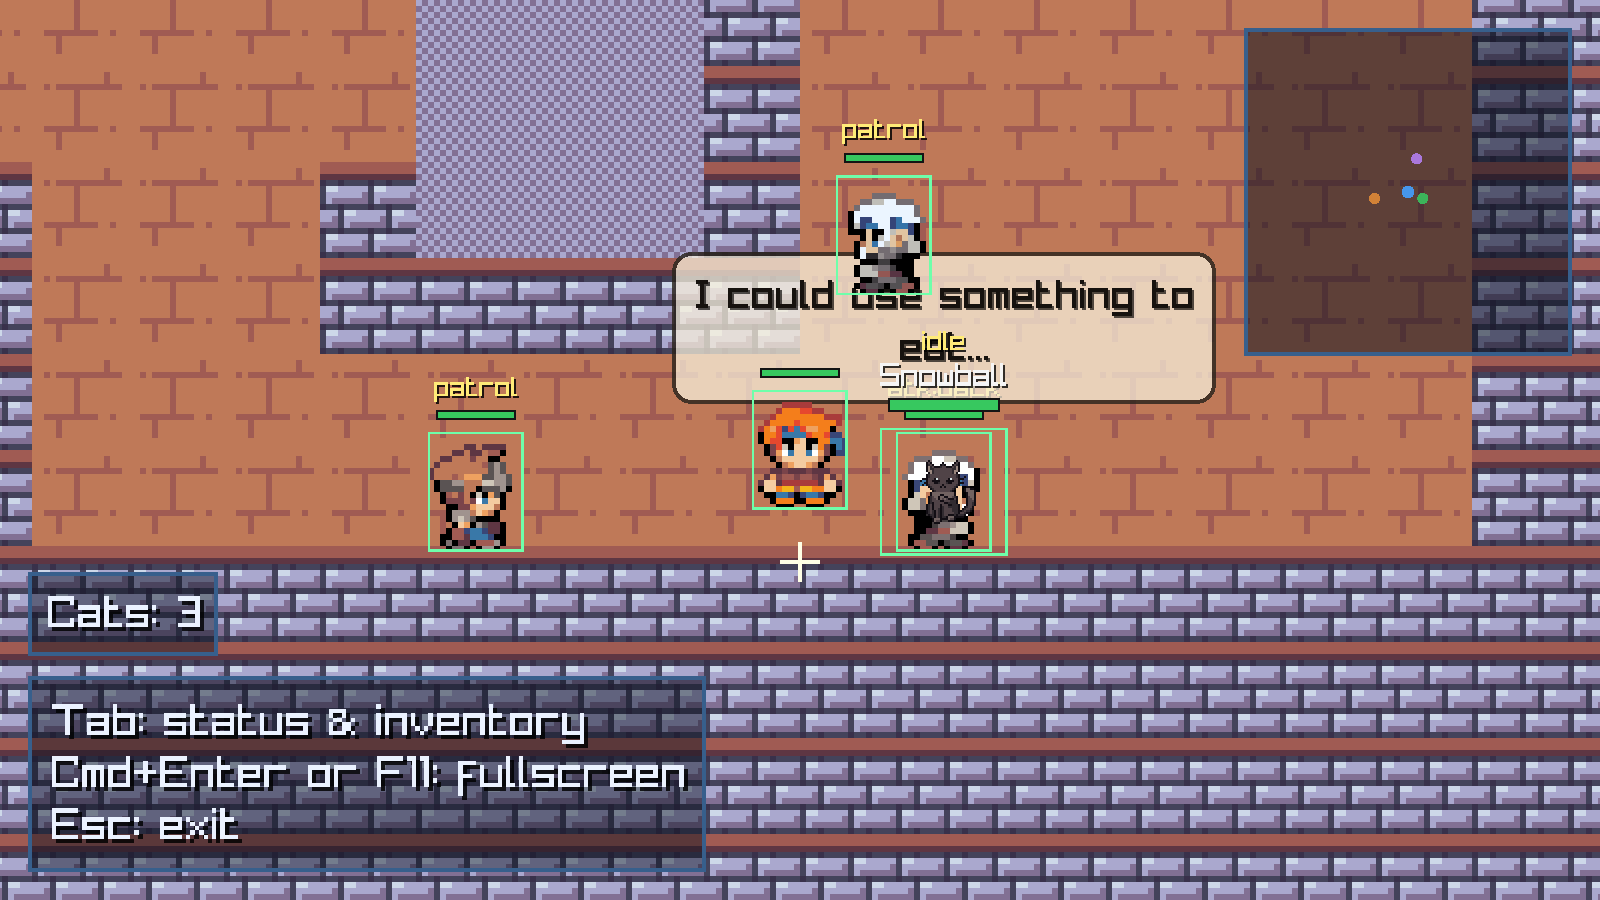
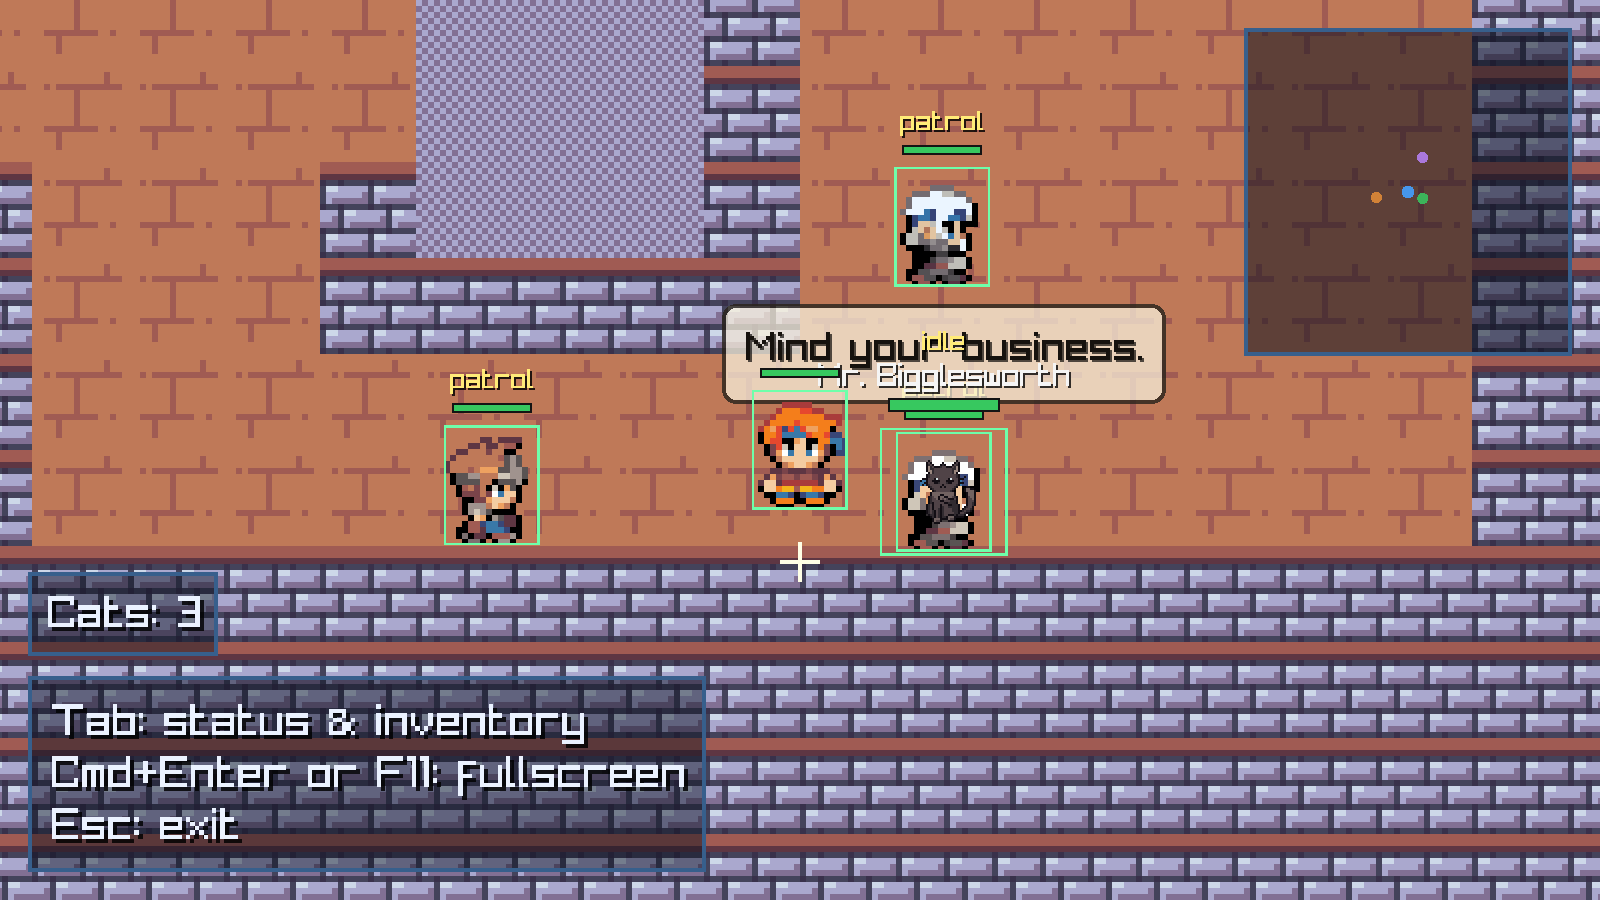
multilpe cat sprites

Changed region(s): [[0.4062, 0.1244, 0.7812, 0.4667], [0.25, 0.4044, 0.3438, 0.6222]]

diff --git a/SleuthRay/SleuthRayGame.cs b/SleuthRay/SleuthRayGame.cs
@@ -85,7 +85,12 @@ internal sealed class SleuthRayGame : ISleuthRayGame
         Texture2D wandererTexture = RaylibTextures.LoadTexturePixel("assets/characters/character_4_frame16x20.png");
         Texture2D agentTexture = RaylibTextures.LoadTexturePixel("assets/characters/character_9_frame16x20.png");
         Texture2D gunTexture = RaylibTextures.LoadTexturePixel("assets/weapons/1Revolver01.png");
-        Texture2D catTexture = RaylibTextures.LoadTexturePixel("assets/cats/cat.png");
+        Texture2D[] catTextures =
+        [
+            RaylibTextures.LoadTexturePixel("assets/cats/cat-a.png"),
+            RaylibTextures.LoadTexturePixel("assets/cats/cat-b.png"),
+            RaylibTextures.LoadTexturePixel("assets/cats/cat-c.png"),
+        ];
 
         // Raylib PlaySound restarts that buffer from the start; one clip cannot overlap itself.
         var gunshotVoices = new Sound[_gunshotAudio.VoiceCount];
@@ -169,7 +174,7 @@ internal sealed class SleuthRayGame : ISleuthRayGame
         // Along last aim direction: offset by ~half scaled gun width so the pivot sits past the torso, not inside it.
         const float gunPivotAlongAimExtraPx = 14f;
         const float gunFlashDuration = 0.22f;
-        var bullets = new List<(Vector2 Pos, Vector2 Vel, bool FromPlayer, float HitCooldown, string Name)>(48);
+        var bullets = new List<(Vector2 Pos, Vector2 Vel, bool FromPlayer, float HitCooldown, string Name, int CatVariant)>(48);
         float gunFlashTimer = 0f;
         Vector2 lastShotDir = new(0f, 1f);
         const int maxCatsInInventory = 5;
@@ -718,13 +723,14 @@ internal sealed class SleuthRayGame : ISleuthRayGame
                 }
 
                 Vector2 vel = dir * bulletSpeed;
-                bullets.Add((playerWorldPos + dir * bulletSpawnPad, vel, true, 0f, _catNamePicker.Pick()));
+                int catVariant = Random.Shared.Next(0, catTextures.Length);
+                bullets.Add((playerWorldPos + dir * bulletSpawnPad, vel, true, 0f, _catNamePicker.Pick(), catVariant));
                 catsInInventory--;
             }
 
             for (int i = bullets.Count - 1; i >= 0; i--)
             {
-                (Vector2 pos, Vector2 vel, bool fromPlayer, float hitCooldown, string bulletName) = bullets[i];
+                (Vector2 pos, Vector2 vel, bool fromPlayer, float hitCooldown, string bulletName, int bulletCatVariant) = bullets[i];
                 hitCooldown = MathF.Max(0f, hitCooldown - dt);
                 Vector2 newPos = pos + vel * dt;
                 if (newPos.X < 0f || newPos.Y < 0f || newPos.X > worldW || newPos.Y > worldH
@@ -737,7 +743,7 @@ internal sealed class SleuthRayGame : ISleuthRayGame
                         && map.OverlapsBlockingTile(newPos, mapScale, bulletHitHalf, bulletHitHalf))
                     {
                         Vector2 spawnPos = _gameplay.FindWandererSpawn(map, pos, mapScale, catHitHalfW, catHitHalfH);
-                        wanderingCats.Add(WanderingCat.SpawnAt(spawnPos, catIdleRow, bulletName, catMaxHealth));
+                        wanderingCats.Add(WanderingCat.SpawnAt(spawnPos, catIdleRow, bulletName, catMaxHealth, bulletCatVariant));
                     }
 
                     bullets.RemoveAt(i);
@@ -792,7 +798,7 @@ internal sealed class SleuthRayGame : ISleuthRayGame
                             enemies[hitEnemyIndex] = e;
                         }
 
-                        bullets[i] = (newPos, vel, fromPlayer, hitCooldown, bulletName);
+                        bullets[i] = (newPos, vel, fromPlayer, hitCooldown, bulletName, bulletCatVariant);
                         continue;
                     }
 
@@ -828,11 +834,11 @@ internal sealed class SleuthRayGame : ISleuthRayGame
                             wanderingCats[hitCatIndex] = hitCat;
                         }
 
-                        bullets[i] = (newPos, vel, fromPlayer, hitCooldown, bulletName);
+                        bullets[i] = (newPos, vel, fromPlayer, hitCooldown, bulletName, bulletCatVariant);
                     }
                     else
                     {
-                        bullets[i] = (newPos, vel, fromPlayer, hitCooldown, bulletName);
+                        bullets[i] = (newPos, vel, fromPlayer, hitCooldown, bulletName, bulletCatVariant);
                     }
                 }
                 else if (!fromPlayer)
@@ -869,7 +875,7 @@ internal sealed class SleuthRayGame : ISleuthRayGame
                             wanderingCats[hitCatIndex] = hitCat;
                         }
 
-                        bullets[i] = (newPos, vel, fromPlayer, hitCooldown, bulletName);
+                        bullets[i] = (newPos, vel, fromPlayer, hitCooldown, bulletName, bulletCatVariant);
                     }
                     else if (_gameplay.CircleIntersectsWorldRect(newPos, bulletRadius, playerWorldPos, playerHitHalfW, playerHitHalfH))
                     {
@@ -891,7 +897,7 @@ internal sealed class SleuthRayGame : ISleuthRayGame
                     }
                     else
                     {
-                        bullets[i] = (newPos, vel, fromPlayer, hitCooldown, bulletName);
+                        bullets[i] = (newPos, vel, fromPlayer, hitCooldown, bulletName, bulletCatVariant);
                     }
                 }
             }
@@ -1003,6 +1009,7 @@ internal sealed class SleuthRayGame : ISleuthRayGame
             for (int ci = 0; ci < wanderingCats.Count; ci++)
             {
                 WanderingCat wc = wanderingCats[ci];
+                Texture2D catTexture = catTextures[Math.Clamp(wc.SpriteVariant, 0, catTextures.Length - 1)];
                 int catStripFrameCount = wc.IsWalking ? catWalkFrameCount : catIdleFrameCount;
                 int catFrameSafe = wc.FrameIndex % catStripFrameCount;
                 var catSrc = new Rectangle(catFrameSafe * catFrameSize, wc.DrawRow * catFrameSize, catFrameSize, catFrameSize);
@@ -1183,10 +1190,11 @@ internal sealed class SleuthRayGame : ISleuthRayGame
 
             for (int i = 0; i < bullets.Count; i++)
             {
-                (Vector2 bPos, Vector2 bVel, bool bFromPlayer, _, string bName) = bullets[i];
+                (Vector2 bPos, Vector2 bVel, bool bFromPlayer, _, string bName, int bCatVariant) = bullets[i];
                 Vector2 screen = cameraOffsetSmoothed + bPos;
                 if (bFromPlayer)
                 {
+                    Texture2D catBulletTexture = catTextures[Math.Clamp(bCatVariant, 0, catTextures.Length - 1)];
                     // Same as the gun: mirror in the left half-plane, atan2 on reflected X so diagonals stay sane and the sprite stays upright.
                     bool mirrorCatBullet = bVel.X < 0f;
                     float ax = mirrorCatBullet ? -bVel.X : bVel.X;
@@ -1202,7 +1210,7 @@ internal sealed class SleuthRayGame : ISleuthRayGame
                     var catBulletDest = new Rectangle(screen.X, screen.Y, cbW, cbH);
                     var catBulletOrigin = new Vector2(cbW * 0.5f, cbH * 0.5f);
                     var catBulletBounds = new Rectangle(screen.X - cbW * 0.5f, screen.Y - cbH * 0.5f, cbW, cbH);
-                    Raylib.DrawTexturePro(catTexture, catBulletSrc, catBulletDest, catBulletOrigin, catRotDeg, Color.WHITE);
+                    Raylib.DrawTexturePro(catBulletTexture, catBulletSrc, catBulletDest, catBulletOrigin, catRotDeg, Color.WHITE);
                     Raylib.DrawRectangleLinesEx(catBulletBounds, spriteBoundsThick, spriteBoundsCol);
 
                     if (bName.Length > 0)
@@ -1440,7 +1448,10 @@ internal sealed class SleuthRayGame : ISleuthRayGame
         Raylib.CloseAudioDevice();
 
         Raylib.UnloadTexture(gunTexture);
-        Raylib.UnloadTexture(catTexture);
+        for (int i = 0; i < catTextures.Length; i++)
+        {
+            Raylib.UnloadTexture(catTextures[i]);
+        }
         Raylib.UnloadTexture(wandererTexture);
         Raylib.UnloadTexture(agentTexture);
         Raylib.UnloadTexture(characterTexture);

diff --git a/SleuthRay/EnemyBrain.cs b/SleuthRay/EnemyBrain.cs
@@ -27,7 +27,7 @@ internal interface IEnemyBrain
         float catHitHalfH,
         List<WanderingCat> cats,
         IReadOnlyList<Enemy> allEnemies,
-        List<(Vector2 Pos, Vector2 Vel, bool FromPlayer, float HitCooldown, string Name)> bullets,
+        List<(Vector2 Pos, Vector2 Vel, bool FromPlayer, float HitCooldown, string Name, int CatVariant)> bullets,
         TilePathfinder pathfinder,
         IGameplay gameplay);
 }
@@ -218,7 +218,7 @@ internal sealed class EnemyBrain(IGameplay gameplay) : IEnemyBrain
         float catHitHalfH,
         List<WanderingCat> cats,
         IReadOnlyList<Enemy> allEnemies,
-        List<(Vector2 Pos, Vector2 Vel, bool FromPlayer, float HitCooldown, string Name)> bullets,
+        List<(Vector2 Pos, Vector2 Vel, bool FromPlayer, float HitCooldown, string Name, int CatVariant)> bullets,
         TilePathfinder pathfinder,
         IGameplay gameplay)
     {
@@ -493,7 +493,7 @@ internal sealed class EnemyBrain(IGameplay gameplay) : IEnemyBrain
                 {
                     aimDir = Vector2.Normalize(aimDir);
                     e.FaceDir = aimDir;
-                    bullets.Add((e.WorldPos + aimDir * p.BulletSpawnPad, aimDir * p.BulletSpeed, false, 0f, ""));
+                    bullets.Add((e.WorldPos + aimDir * p.BulletSpawnPad, aimDir * p.BulletSpeed, false, 0f, "", -1));
                     fired = true;
                 }
 

diff --git a/SleuthRay/WanderingCat.cs b/SleuthRay/WanderingCat.cs
@@ -36,6 +36,7 @@ internal struct WanderingCat
 {
     public Vector2 WorldPos;
     public Vector2 HomePos;
+    public int SpriteVariant;
     public string Name;
     public string DebugAction;
     public bool IsWalking;
@@ -59,13 +60,14 @@ internal struct WanderingCat
     public int NavGoalTx;
     public int NavGoalTy;
 
-    public static WanderingCat SpawnAt(Vector2 worldPos, int idleRow, string name, int maxHealth)
+    public static WanderingCat SpawnAt(Vector2 worldPos, int idleRow, string name, int maxHealth, int? spriteVariant = null)
     {
         int mh = Math.Max(1, maxHealth);
         return new()
         {
             WorldPos = worldPos,
             HomePos = worldPos,
+            SpriteVariant = spriteVariant ?? Random.Shared.Next(0, 3),
             Name = string.IsNullOrWhiteSpace(name) ? "Cat" : name.Trim(),
             DebugAction = "spawn",
             IsWalking = false,
